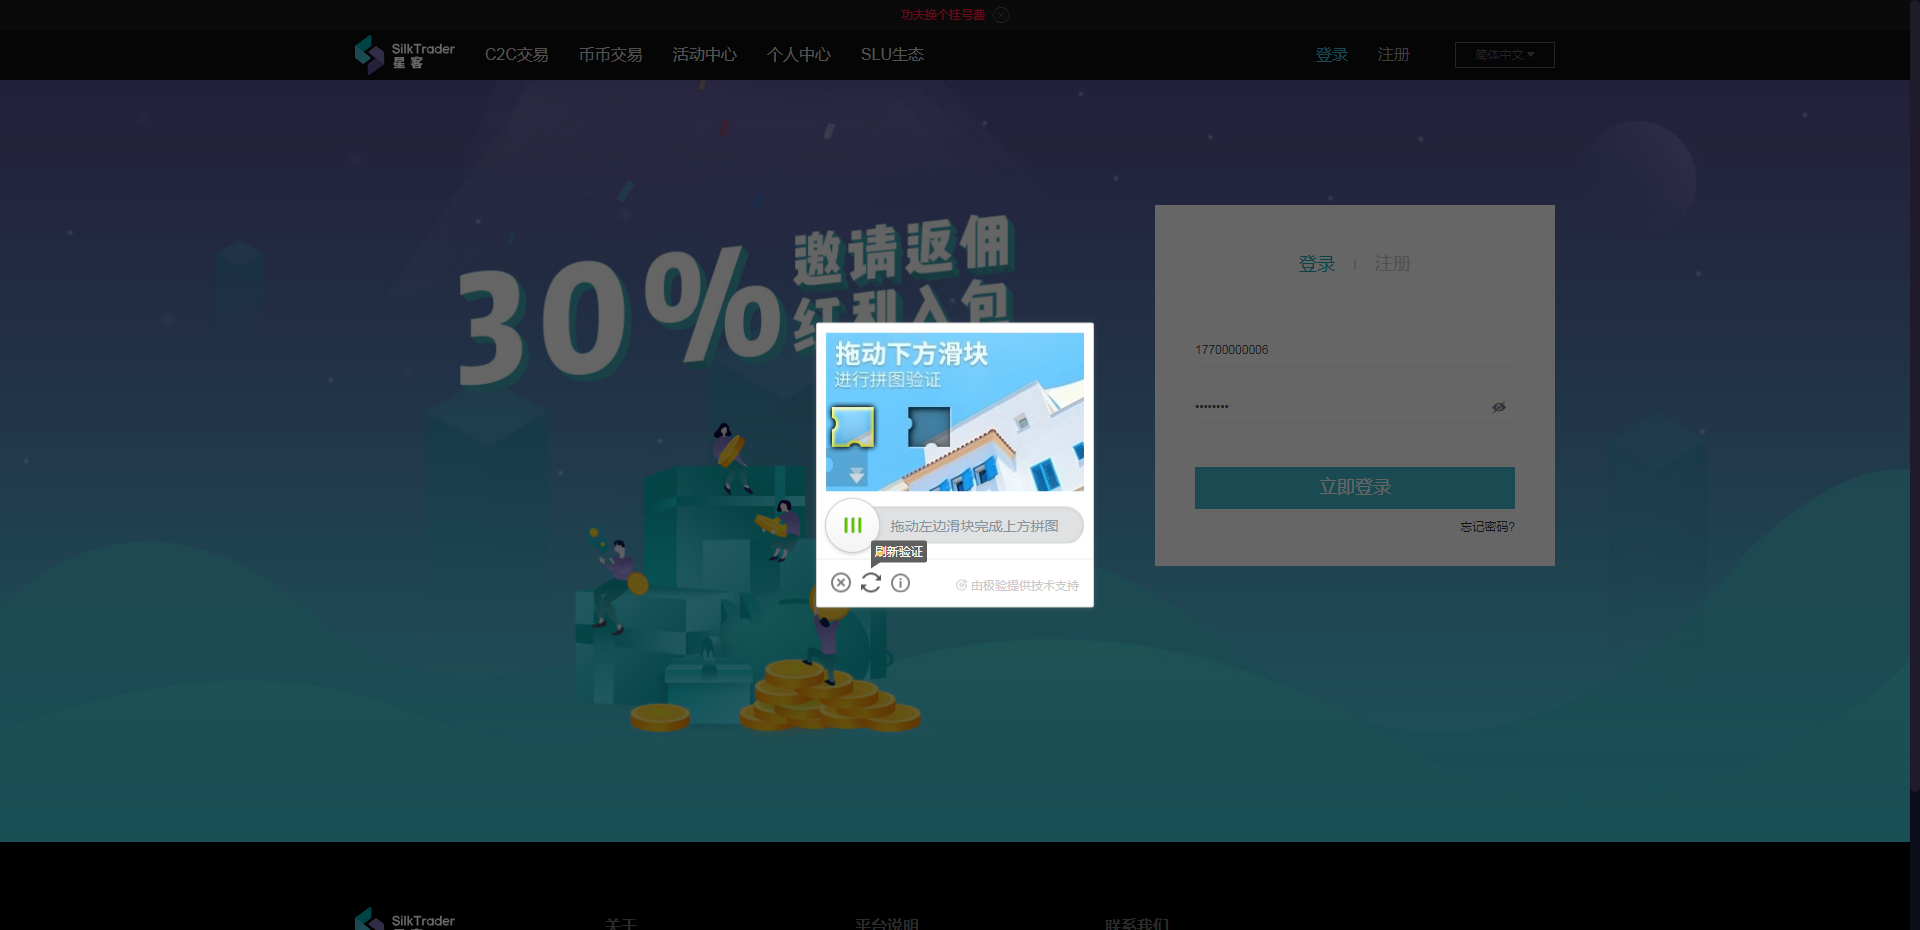
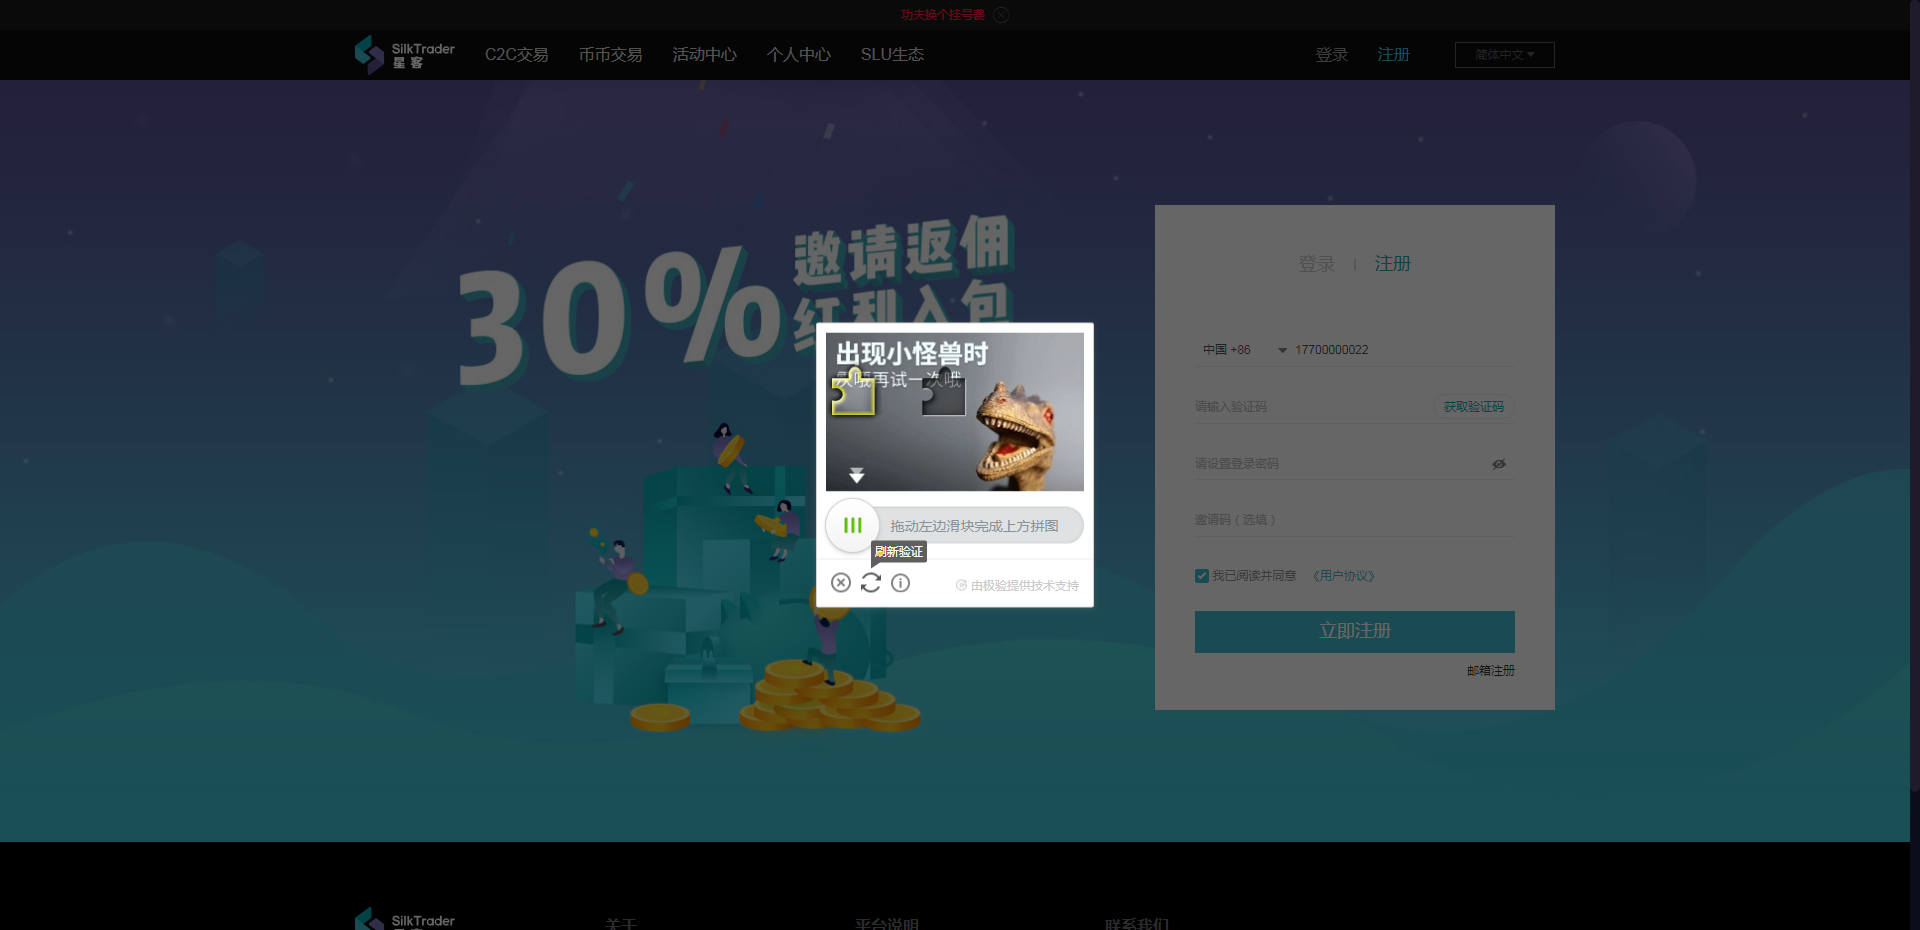
登录注册页面滑块行为封装及添加用户注册流程

diff --git a/Pages/DKpc_LoginPage.py b/Pages/DKpc_LoginPage.py
@@ -9,6 +9,8 @@ import time
 
 from BaseSe.Selenium3 import Pyse
 from BaseSe.Base import Base_image_move_distance as Bimd
+from Conf.connect_mysql import connect_mysql
+from Conf.connect_redis import Connect_redis
 
 class DKpc_LoginPage(Pyse):
 
@@ -39,6 +41,27 @@ class DKpc_LoginPage(Pyse):
     xpath_hide_slider_gap = "//canvas[@class='geetest_canvas_fullbg geetest_fade geetest_absolute']"
 
 
+    # 查询最新一条用户注册使用的手机号
+    sql_registed_mobile = "SELECT mobile_phone FROM member WHERE mobile_phone LIKE '1770000%'ORDER BY mobile_phone DESC LIMIT 1;"
+
+
+    # 注册
+    # 注册手机号输入框
+    xpath_register_mobile = (By.XPATH, "//div[@class='ivu-input-wrapper ivu-input-type']//input[@placeholder='请输入您的手机号']")
+    # 获取验证码按钮
+    xpath_register_message_button = (By.XPATH, "//input[@id='sendCode']")
+    # 验证码发送方式确认按钮
+    xpath_register_message_type_button = (By.XPATH, "//button[@class='ivu-btn ivu-btn-primary ivu-btn-long ivu-btn-large']")
+    # 注册验证码输入框
+    xpath_register_message = (By.XPATH, "//div[@class='ivu-input-wrapper ivu-input-type']//input[@placeholder='请输入验证码']")
+    # 注册登录密码输入框
+    xpath_register_password = (By.XPATH, "//div[@class='ivu-input-wrapper ivu-input-type']//input[@placeholder='请设置登录密码']")
+    # 注册邀请码输入框
+    xpath_register_inviteCode = (By.XPATH, "//div[@class='ivu-input-wrapper ivu-input-type']//input[@placeholder='邀请码（选填）']")
+    # 注册按钮
+    xpath_register_button = (By.XPATH, "//button[@class='loginBut ivu-btn ivu-btn-primary ivu-btn-large']")
+
+
     """用户参数"""
     # 用户名密码
     user = "17700000006"
@@ -51,12 +74,16 @@ class DKpc_LoginPage(Pyse):
         # 调用Selenium3中的_open()方法打开连接
         self._open(self.base_url, self.pagetitle)
 
-    def login_put(self):
-        """登录"""
 
+    # 滑动
+    def slide(self):
+        """
+        @description: 登录注册页面滑动滑块方法封装，页面上的滑块直接调用slide即可
+        :return: 
+        """
         def move_slider():
             """
-            登录页面滑动滑块方法，便于失败后重试
+            登录注册页面滑动滑块方法，便于失败后重试
             :return: 
             """
             # 拖动验证滑块,注：拖动定位不能使用（By.XPATH,""），否则报元组参数错误，使用基础的定位方法
@@ -85,13 +112,6 @@ class DKpc_LoginPage(Pyse):
             time.sleep(0.5)  # 0.5秒后释放鼠标
             ActionChains(self.driver).release().perform()
 
-        # 输入登录用户信息
-        self.send_keys(self.xpath_user_input, self.user)
-        self.send_keys(self.xpath_password_input, self.password)
-        self.page_waiting()
-        self.find_element(*self.xpath_login_button).click()
-
-        # 加载页面后先滑动一次滑块，如未成功再重试
         move_slider()
         time.sleep(3)
         # 重试滑块
@@ -118,6 +138,39 @@ class DKpc_LoginPage(Pyse):
             self.driver.quit()
 
 
+    def login_put(self):
+        """
+        @description: 登录
+        :return: 
+        """
+
+        # 输入登录用户信息
+        self.send_keys(self.xpath_user_input, self.user)
+        self.send_keys(self.xpath_password_input, self.password)
+        self.page_waiting()
+        self.find_element(*self.xpath_login_button).click()
+
+        # 滑动
+        self.slide()
+
+
+    # 注册
     def register_put(self):
         """"""
+        self.register_mobile = str(int(connect_mysql().connect2mysql(self.sql_registed_mobile)[0][0]) + 1)
+        self.send_keys(self.xpath_register_mobile, self.register_mobile)
+        self.find_element(*self.xpath_register_message_button).click()
+        self.find_element(*self.xpath_register_message_type_button).click()
+        self.page_waiting()
+
+        # 滑动滑块
+        self.slide()
+
+        time.sleep(2)
+        self.redis_key = "PHONE_REG_CODE_" + self.register_mobile
+        messageNum = Connect_redis().get_redis(self.redis_key)
+        self.send_keys(self.xpath_register_message, messageNum)
+        self.send_keys(self.xpath_register_password, self.password)
+        self.page_waiting()
+        self.find_element(*self.xpath_register_button).click()
 

diff --git a/Conf/connect_redis.py b/Conf/connect_redis.py
@@ -26,7 +26,11 @@ class Connect_redis(object):
         :param key: 查询键值
         :return: values
         """
-        return json.loads(bytes.decode(self.con_redis.get(key)))
+        try:
+            return json.loads(bytes.decode(self.con_redis.get(key)))
+        except Exception as e:
+            print("查询结果错误或为空：{}".format(e))
+            return "null"
 
     def set_redis(self, key, values):
 
@@ -40,7 +44,7 @@ class Connect_redis(object):
 
 
 if __name__ == "__main__":
-    r = Connect_redis().get_redis("entity:appRevision:ANDROID")
+    r = Connect_redis().get_redis("PHONE_REG_CODE_17700000022")
     print(r)
     print(type(r))
-    print(r[1]["downloadUrl"])
+    # print(r[1]["downloadUrl"])

diff --git a/Pages/DKpc_HomePage.py b/Pages/DKpc_HomePage.py
@@ -26,6 +26,8 @@ class DKpc_HomePage(Pyse):
 
     # 登录按钮
     xpath_button_jump_login = (By.XPATH, "//ul[@class='ivu-menu']//a[@href='#/login']")
+    # 注册按钮
+    xpath_button_jump_register = (By.XPATH, "//ul[@class='ivu-menu']//a[@href='#/register']")
 
     # 上部滚动广告
     # 公告通知列表
@@ -142,6 +144,14 @@ class DKpc_HomePage(Pyse):
         :return: 
         """
         self.find_element(*self. xpath_button_jump_login).click()
+
+
+    def open_registerPage(self):
+        """
+        @description: 跳转注册页面
+        :return: 
+        """
+        self.find_element(*self.xpath_button_jump_register).click()
 
 
     def open_uc_assets_page(self):

diff --git a/TestCase/Test_DKpc.py b/TestCase/Test_DKpc.py
@@ -60,6 +60,13 @@ class DKpcCase(unittest.TestCase):
         self.DKpc_Ucassets = DKpc_UcassetsPage(self.driver, self.url, self.title)
         self.DKpc_Ucassets.browse_DKpc_UcassetsPage_elements()
 
+    def test_3_registAndLogin(self):
+        """"""
+        self.DKpc_startPage.open_registerPage()
+        self.DKpc_register = DKpc_LoginPage(self.driver, self.url, self.title)
+        self.DKpc_register.register_put()
+
+
 
 if __name__ == "__main__":
     unittest.main()
